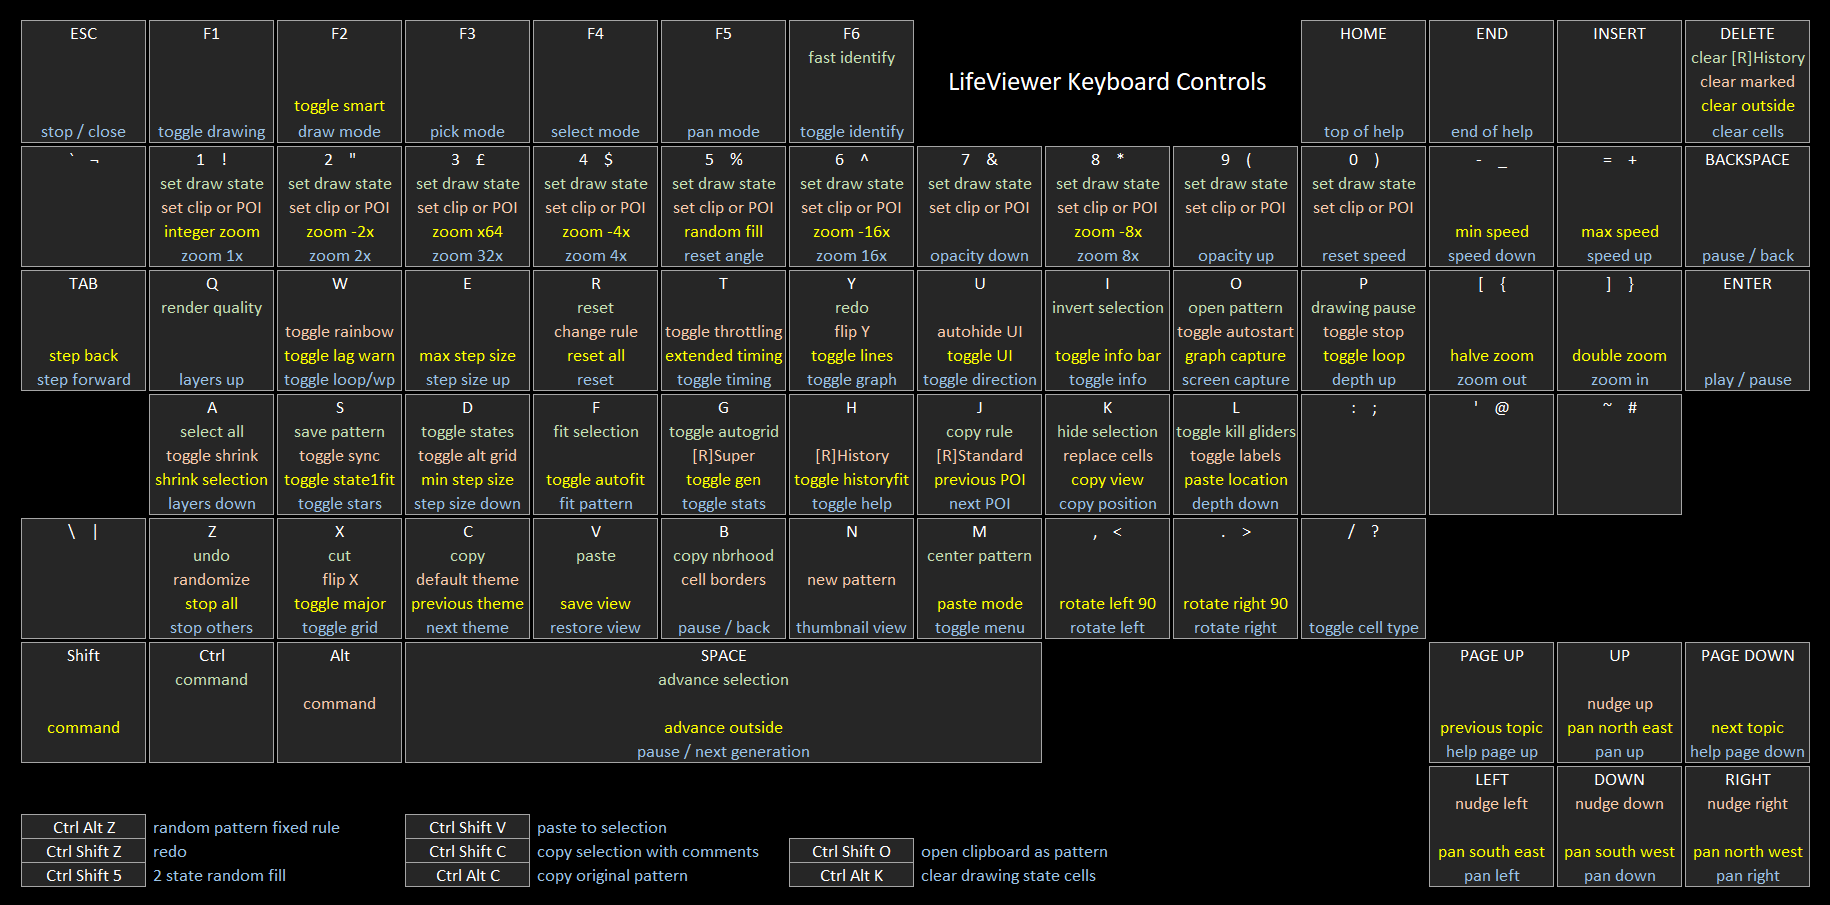
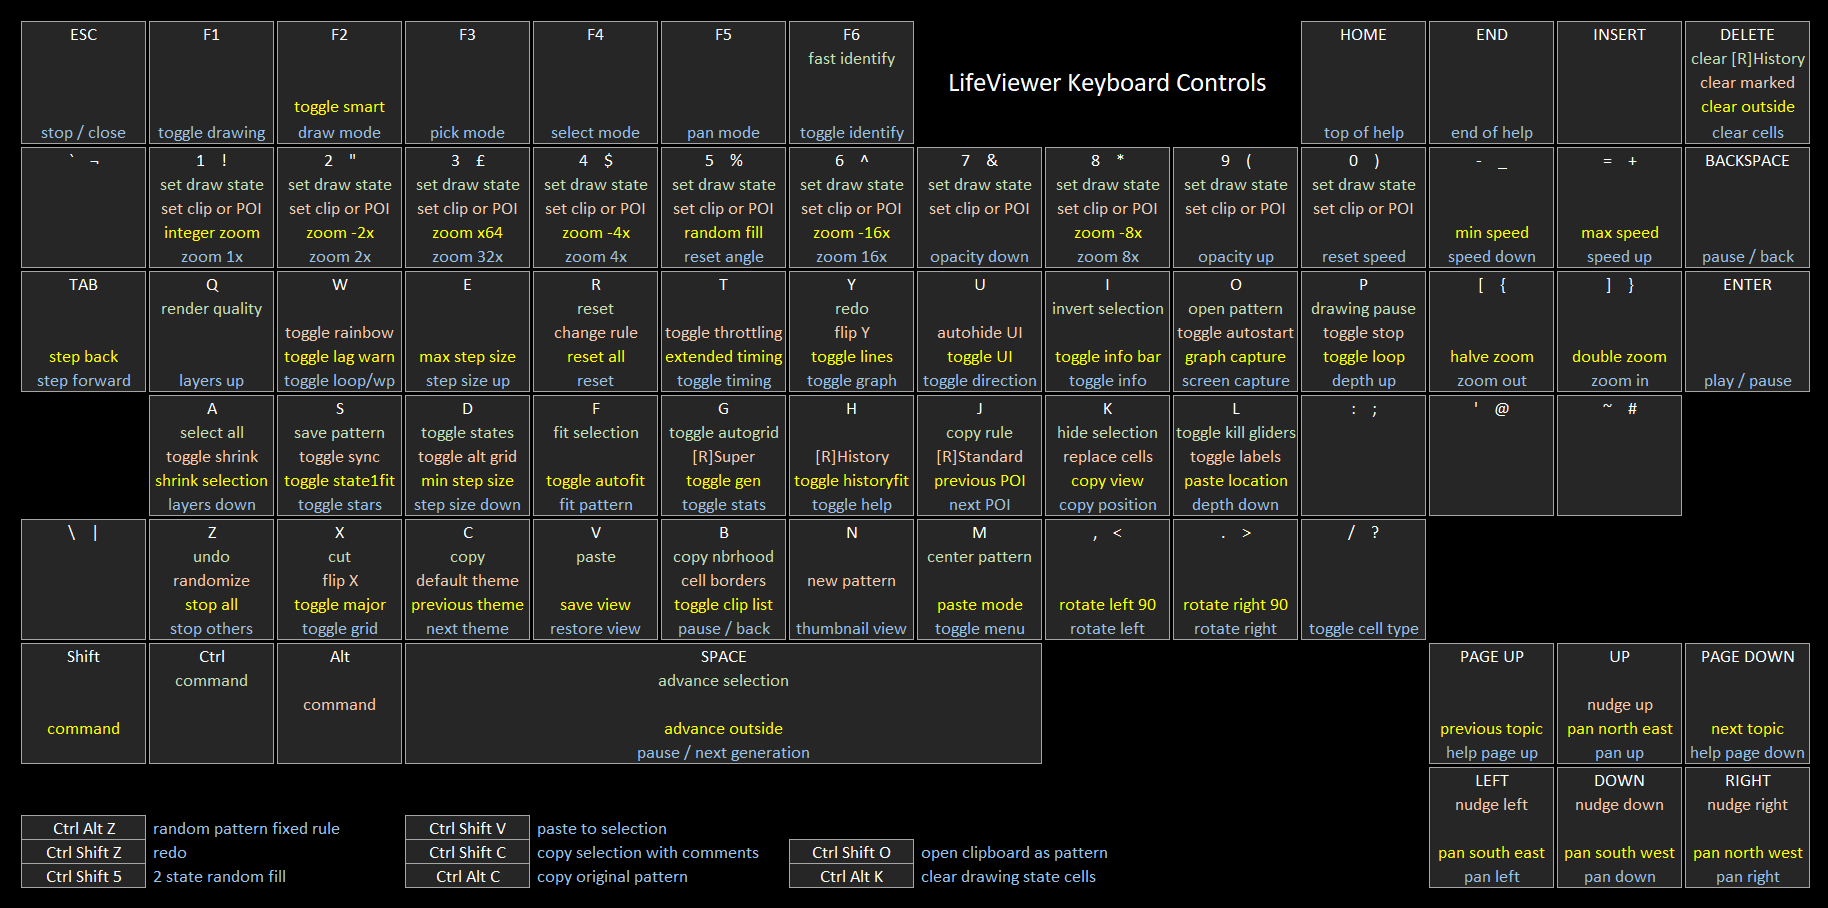
added state name support to [[ COLOR ]] command (part 1)

diff --git a/js/lifeview.js b/js/lifeview.js
@@ -303,7 +303,7 @@
 		/** @const {string} */ versionName : "LifeViewer",
 
 		// build version
-		/** @const {number} */ versionBuild : 611,
+		/** @const {number} */ versionBuild : 612,
 
 		// author
 		/** @const {string} */ versionAuthor : "Chris Rowett",
@@ -7302,12 +7302,118 @@
 		}
 	};
 
+	// get state number from name
+	View.prototype.getStateFromName = function(name) {
+		var number = -1,
+			i = 0,
+			n = 0,
+			s = 0,
+			e = 0,
+			w = 0;
+
+		// remove quotes from the name
+		if (name.charAt(0) === "\"") {
+			name = name.substr(1, name.length - 2);
+		}
+
+		// rule tree states
+		if (this.engine.isRuleTree) {
+			// check for any @NAMES definitions
+			i = 0;
+			while (i < this.stateNames.length && number === -1) {
+				if (this.stateNames[i] !== undefined) {
+					if (this.stateNames[i] === name) {
+						number = i;
+					}
+				}
+				i += 1;
+			}
+		} else {
+			// check for 2-state rules
+			if (this.engine.multiNumStates <= 2) {
+				if (this.engine.isLifeHistory) {
+					i = 0;
+					while (i < ViewConstants.stateNames.length && number === -1) {
+						if (ViewConstants.stateNames[i] === name) {
+							number = i;
+						}
+					}
+				} else {
+					if (name === "alive") {
+						number = 1;
+					} else {
+						if (name === "dead") {
+							number = 0;
+						}
+					}
+				}
+			} else {
+				// multi-state (Generations or PCA)
+				if (name === "dead") {
+					number = 0;
+				} else {
+					if (this.engine.isPCA) {
+						i = 0;
+						while (i < name.length && number === -1) {
+							switch (name.charAt(i)) {
+								case "N":
+									n += 1;
+									break;
+								case "S":
+									s += 1;
+									break;
+								case "E":
+									e += 1;
+									break;
+								case "W":
+									w += 1;
+									break;
+								default:
+									number = -2;
+							}
+							i += 1;
+						}
+						if (n > 1 || s > 1 || e > 1 || w > 1) {
+							number = -2;
+						}
+						if (number !== -2) {
+							number = n | (e << 1) | (s << 2) | (w << 3);
+						}
+					} else {
+						if (this.engine.isSuper) {
+							i = 0;
+							while (i < LifeConstants.namesSuper.length && number === -1) {
+								if (LifeConstants.namesSuper[i] === name) {
+									number = i;
+								}
+							}
+						} else {
+							if (name === "alive") {
+								number = 1;
+							} else {
+								if (name.substr(0, 6) === "dying ") {
+									number = Number(name.substr(6)) + 1;
+									if (number >= this.engine.multiNumStates) {
+										number = -1;
+									}
+								}
+							}
+						}
+					}
+				}
+			}
+		}
+
+		return number;
+	};
+
 	// get state name
 	View.prototype.getStateName = function(state) {
 		var name = "";
 
-		// rule tree states don't have names
+		// rule tree states
 		if (this.engine.isRuleTree) {
+			// check for any @NAMES definitions
 			if (this.stateNames[state] === undefined) {
 				name = "state " + String(state);
 			} else {

diff --git a/js/parser.js b/js/parser.js
@@ -3182,65 +3182,26 @@
 									this.readCustomThemeElement(view, scriptReader, scriptErrors, ViewConstants.customThemeUIBorder, whichColour);
 									break;
 
-
-								// others are errors
+								// others are errors or state names
 								default:
-									// check for PCA names
-									colNum = -1;
-									if (view.engine.isPCA) {
-										switch(peekToken) {
-										case "N":
-											colNum = 1;
-											break;
-										case "E":
-											colNum = 2;
-											break;
-										case "NE":
-											colNum = 3;
-											break;
-										case "S":
-											colNum = 4;
-											break;
-										case "NS":
-											colNum = 5;
-											break;
-										case "ES":
-											colNum = 6;
-											break;
-										case "NES":
-											colNum = 7;
-											break;
-										case "W":
-											colNum = 8;
-											break;
-										case "NW":
-											colNum = 9;
-											break;
-										case "EW":
-											colNum = 10;
-											break;
-										case "NEW":
-											colNum = 11;
-											break;
-										case "SW":
-											colNum = 12;
-											break;
-										case "NSW":
-											colNum = 13;
-											break;
-										case "ESW":
-											colNum = 14;
-											break;
-										case "NESW":
-											colNum = 15;
-											break;
+									// check if in string
+									if (peekToken.charAt(0) === "\"") {
+										peekToken = scriptReader.getNextToken();
+										do {
+											stringToken = scriptReader.getNextToken();
+											peekToken += " " + stringToken;
 										}
+										while (stringToken !== "" && stringToken.charAt(stringToken.length - 1) !== "\"");
+									} else {
+										peekToken = scriptReader.getNextToken();
+									}
 
-										// decode the rgb value
-										if (colNum !== -1) {
-											peekToken = scriptReader.getNextToken();
-											this.decodeRGB(view, scriptReader, scriptErrors, colNum, nextToken, badColour, colNum);
-										}
+									// check state names
+									colNum = view.getStateFromName(peekToken);
+
+									// decode the rgb value
+									if (colNum !== -1) {
+										this.decodeRGB(view, scriptReader, scriptErrors, colNum, nextToken, badColour, peekToken);
 									}
 
 									// illegal colour element

diff --git a/js/keys.js b/js/keys.js
@@ -1541,13 +1541,13 @@
 
 			// c for theme cycle or copy
 			case 67:
-				// check for Help
-				if (me.displayHelp !== 0) {
-					this.toggleHelpTopic(me, ViewConstants.coloursTopic);
+				// check for control-C
+				if (event.ctrlKey) {
+					me.processCopy(me, event.shiftKey, event.altKey);
 				} else {
-					// check for control-C
-					if (event.ctrlKey) {
-						me.processCopy(me, event.shiftKey, event.altKey);
+				// check for Help
+					if (me.displayHelp !== 0) {
+						this.toggleHelpTopic(me, ViewConstants.coloursTopic);
 					} else {
 						// disable colour themes in multi-state mode
 						if (!me.multiStateView) {

diff --git a/js/life.js b/js/life.js
@@ -171,7 +171,7 @@
 		/** @const {number} */ snapshotInterval : 64,
 
 		// maximum number of population samples for graph
-		/** @const {number} */ maxPopSamples : 262144,
+		/** @const {number} */ maxPopSamples : 524288,
 
 		// population samples chunk size 2^n
 		/** @const {number} */ popChunkPower : 12,
@@ -11395,7 +11395,7 @@
 				maxVal = minVal;
 				next = next + inc;
 				index = index + 1;
-				while ((next | 0) === 0) {
+				while ((next | 0) === 0 && (index < maxPopSamples)) {
 					popChunk = index >> LifeConstants.popChunkPower;
 					popOffset = index & popMask;
 					nextVal = graphData[popChunk][popOffset];
